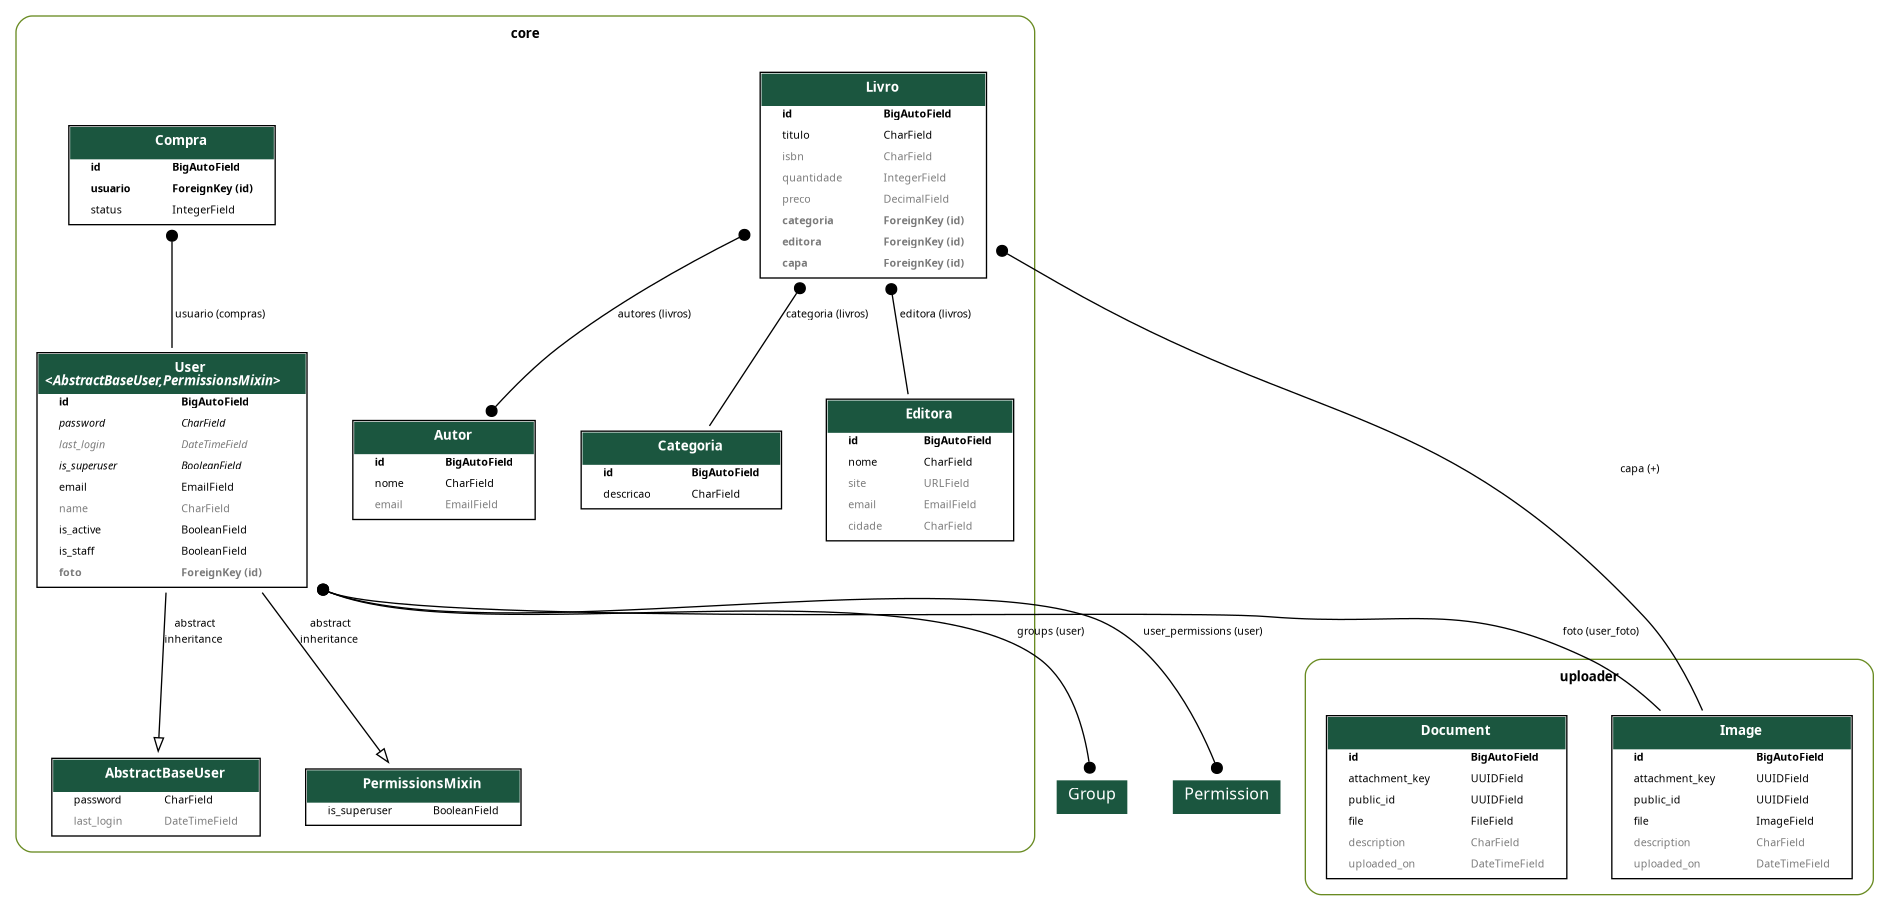
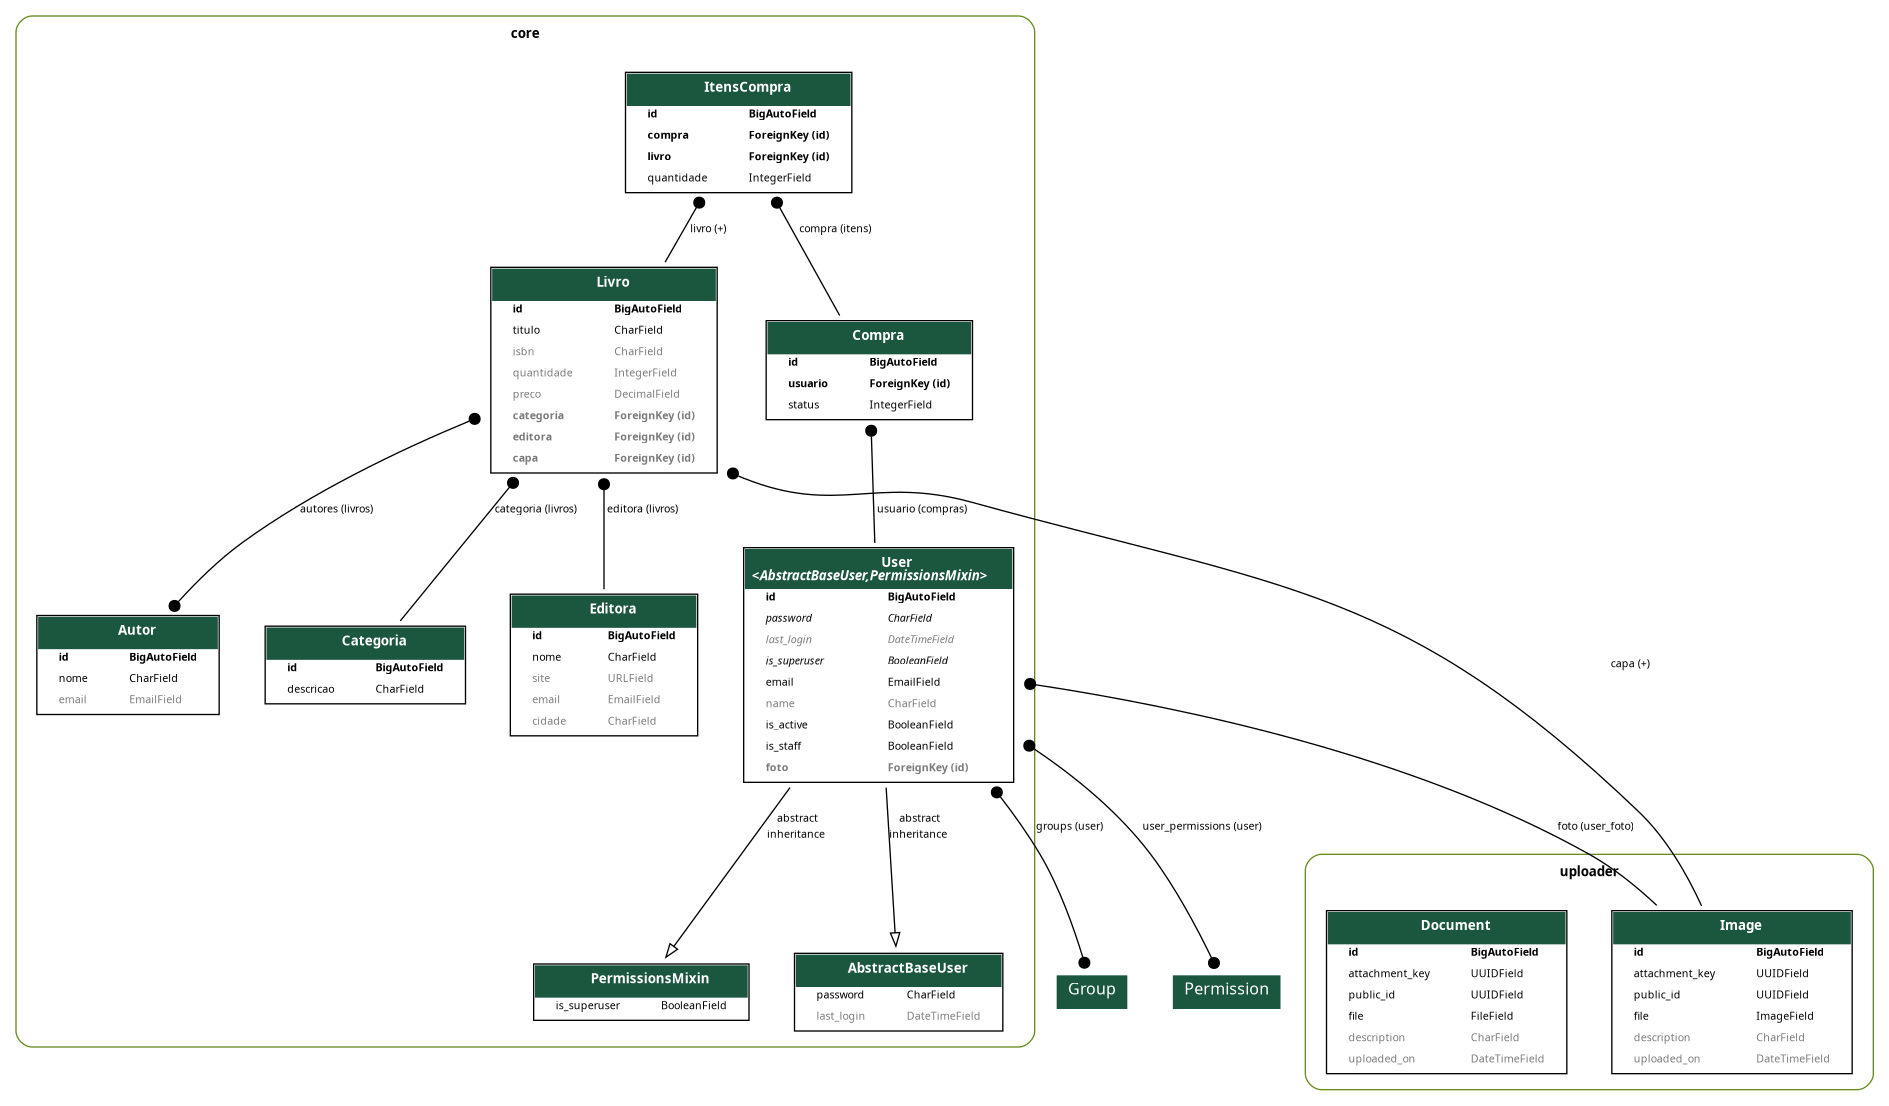
feat: criação dos itens da compra

diff --git a/core/migrations/0015_itenscompra.py b/core/migrations/0015_itenscompra.py
@@ -1,0 +1,23 @@
+# Generated by Django 5.2.13 on 2026-06-16 17:30
+
+import django.db.models.deletion
+from django.db import migrations, models
+
+
+class Migration(migrations.Migration):
+
+    dependencies = [
+        ('core', '0014_compra'),
+    ]
+
+    operations = [
+        migrations.CreateModel(
+            name='ItensCompra',
+            fields=[
+                ('id', models.BigAutoField(auto_created=True, primary_key=True, serialize=False, verbose_name='ID')),
+                ('quantidade', models.IntegerField(default=1)),
+                ('compra', models.ForeignKey(on_delete=django.db.models.deletion.CASCADE, related_name='itens', to='core.compra')),
+                ('livro', models.ForeignKey(on_delete=django.db.models.deletion.PROTECT, related_name='+', to='core.livro')),
+            ],
+        ),
+    ]

diff --git a/core/models/compra.py b/core/models/compra.py
@@ -1,5 +1,6 @@
 from django.db import models
 
+from .livro import Livro
 from .user import User
 
 
@@ -12,3 +13,9 @@ class Compra(models.Model):
 
     usuario = models.ForeignKey(User, on_delete=models.PROTECT, related_name='compras')
     status = models.IntegerField(choices=StatusCompra.choices, default=StatusCompra.CARRINHO)
+
+
+class ItensCompra(models.Model):
+    compra = models.ForeignKey(Compra, on_delete=models.CASCADE, related_name='itens')
+    livro = models.ForeignKey(Livro, on_delete=models.PROTECT, related_name='+')
+    quantidade = models.IntegerField(default=1)

diff --git a/core/admin.py b/core/admin.py
@@ -6,7 +6,7 @@ from django.contrib.admin import ModelAdmin, register
 from django.contrib.auth.admin import UserAdmin as BaseUserAdmin
 from django.utils.translation import gettext_lazy as _
 
-from core.models import Autor, Categoria, Compra, Editora, Livro, User
+from core.models import Autor, Categoria, Compra, Editora, ItensCompra, Livro, User
 
 
 @register(Autor)
@@ -31,6 +31,10 @@ class CategoriaAdmin(ModelAdmin):
 class CompraAdmin(ModelAdmin):
     list_display = ('usuario', 'status')
     ordering = ('usuario', 'status')
+    list_per_page = 10
+
+@register(ItensCompra)
+class ItensCompraAdmin(ModelAdmin):
     list_per_page = 10
 
 

diff --git a/core/models/__init__.py b/core/models/__init__.py
@@ -1,6 +1,6 @@
 from .autor import Autor
 from .categoria import Categoria
-from .compra import Compra
+from .compra import Compra, ItensCompra
 from .editora import Editora
 from .livro import Livro
 from .user import User